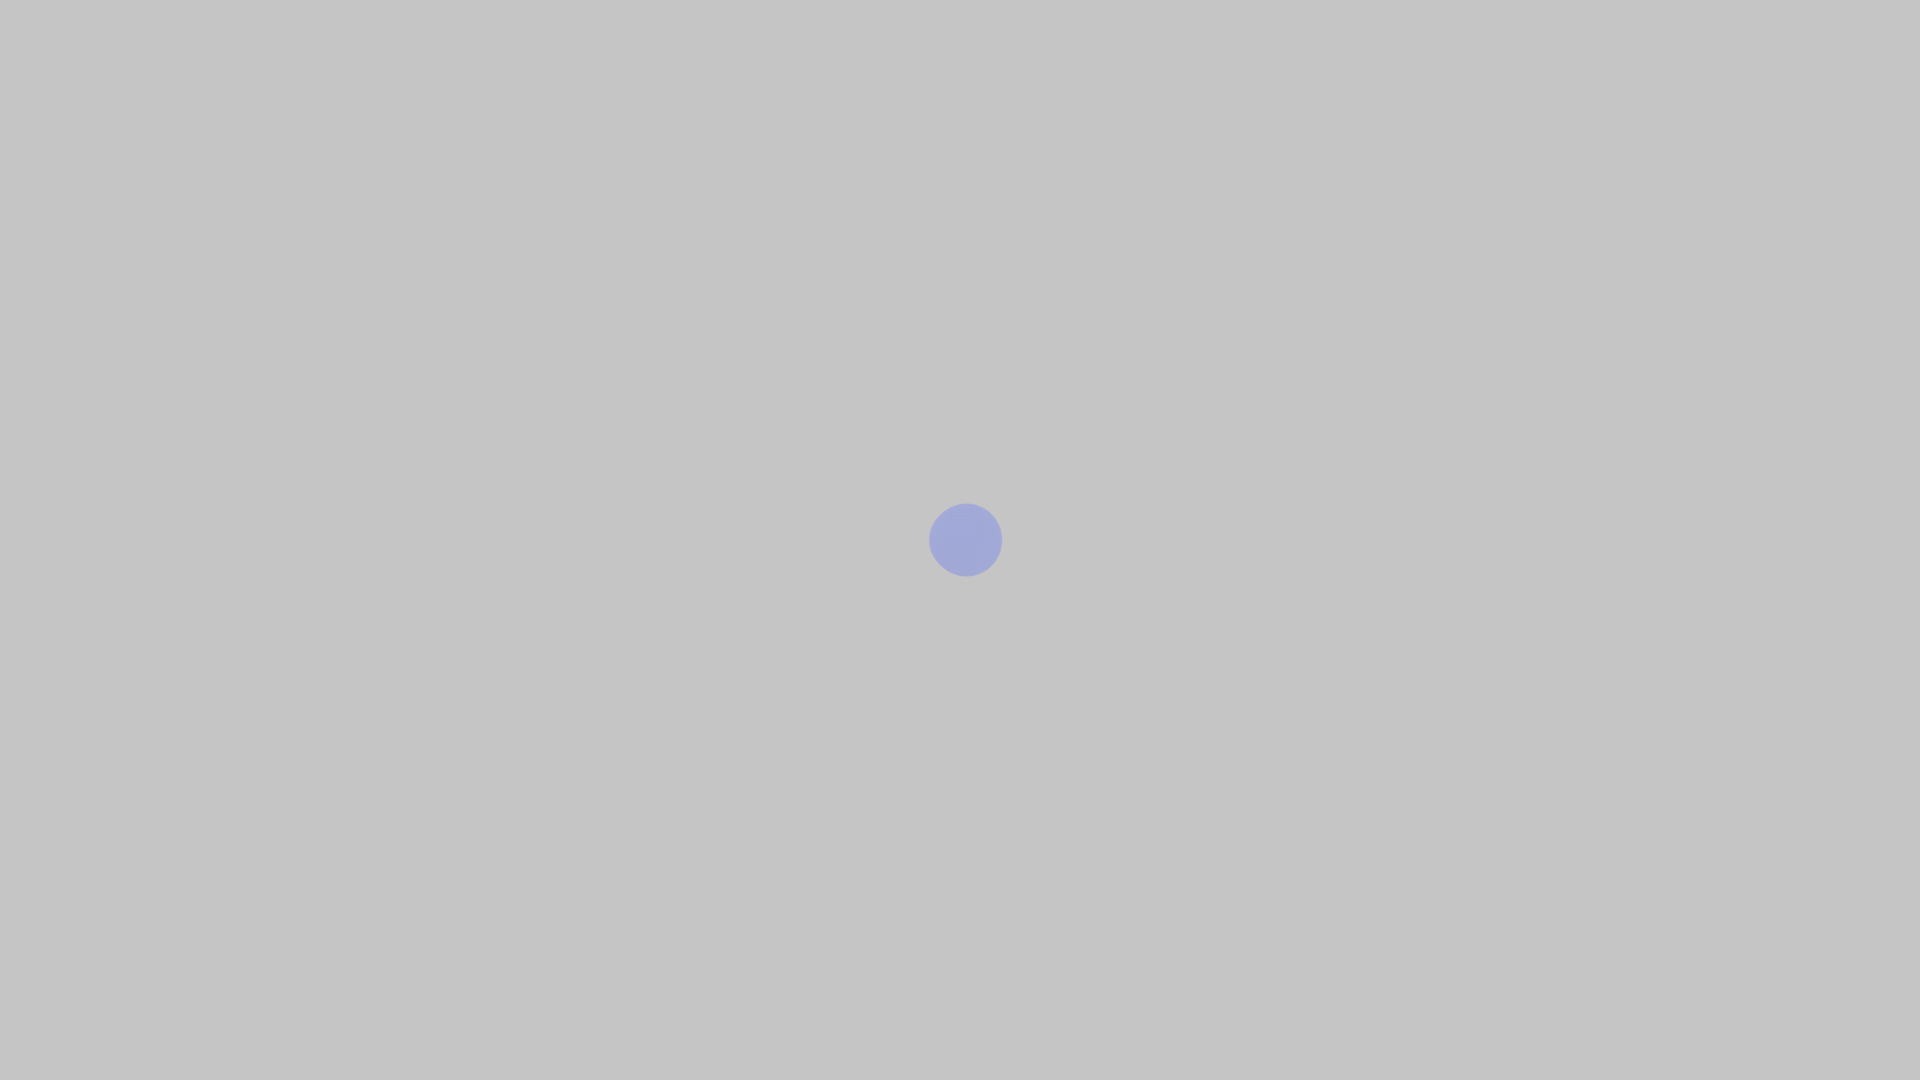
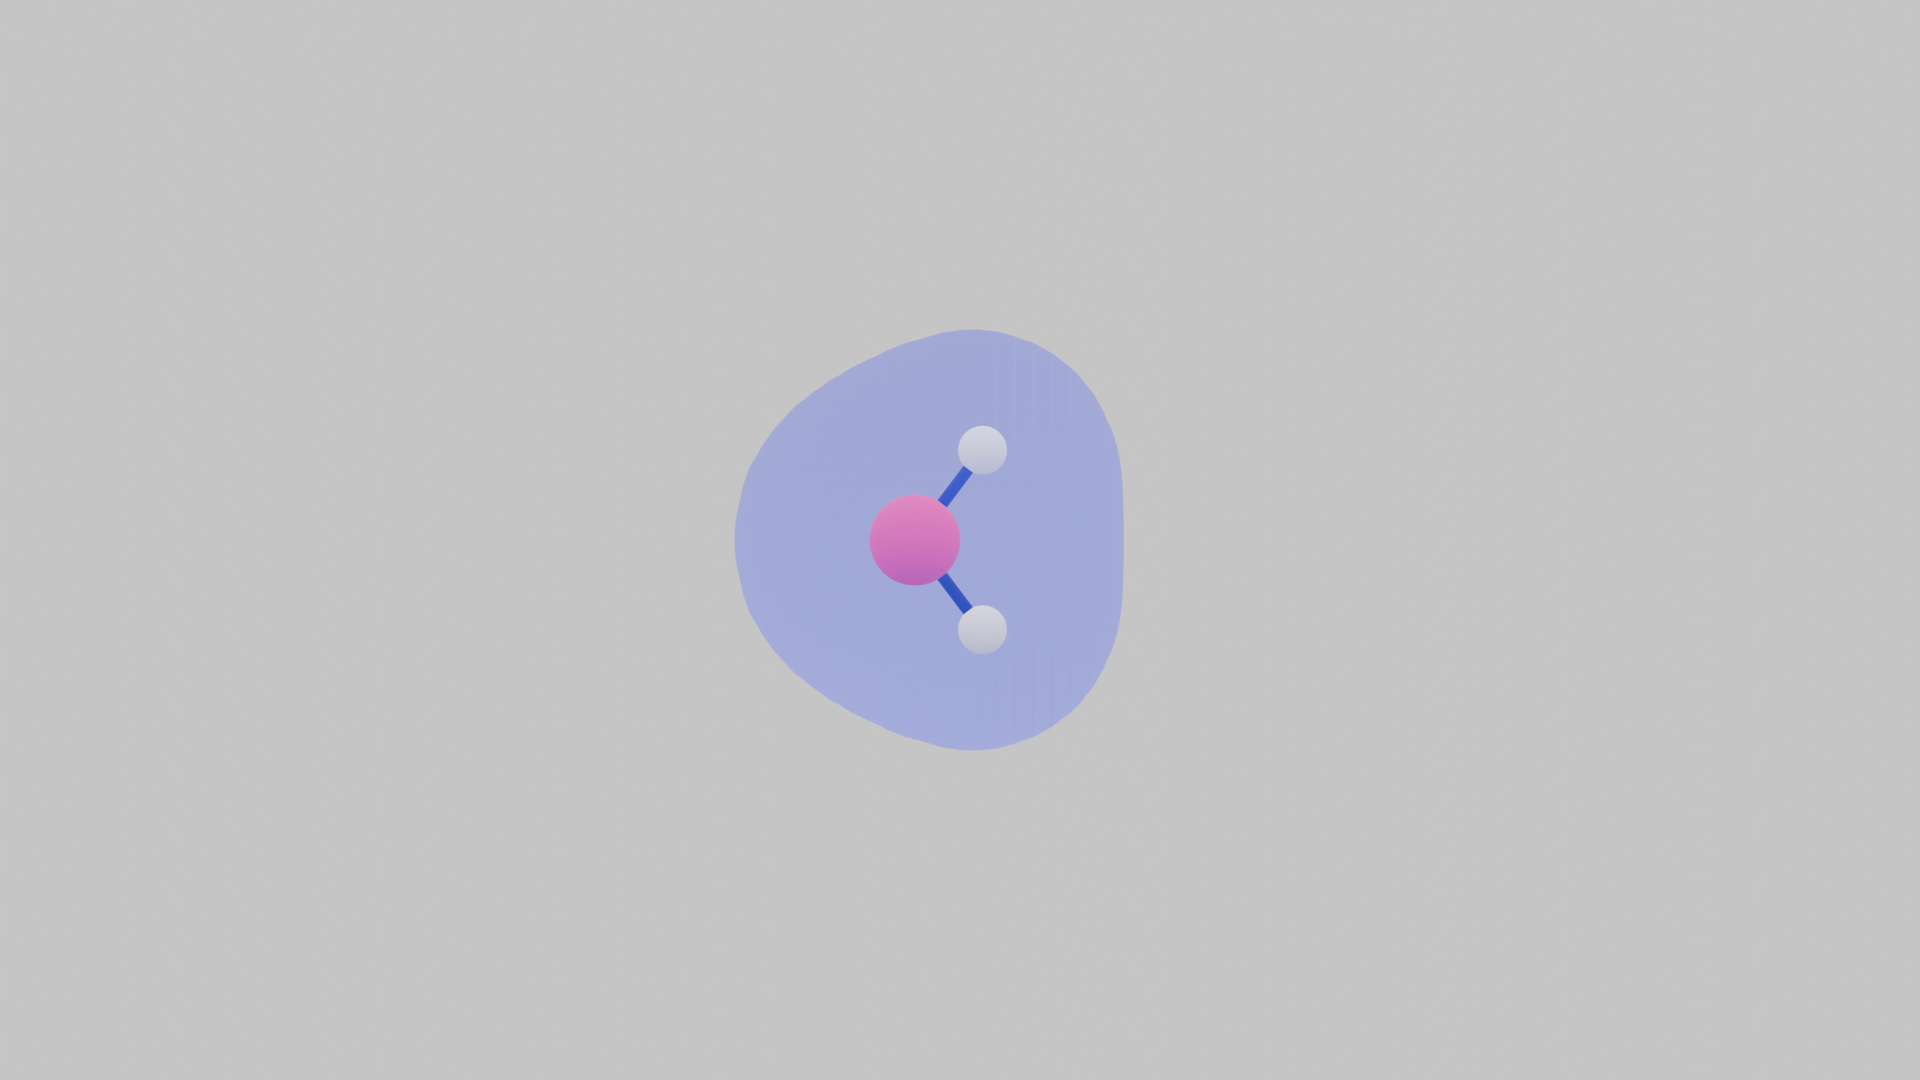
Added function to draw atoms and bonds from names and coordinates

Changed region(s): [[0.375, 0.3056, 0.5938, 0.7028]]

diff --git a/renderCubeFile.py b/renderCubeFile.py
@@ -11,8 +11,12 @@ import logging
 import logging.config
 
 import bpy
+import chemcoord as cc
 
-from math import radians
+import numpy as np
+import numpy.typing as npt
+from math import radians, pi
+import mathutils
 
 from src.cubeFile import CubeFile
 from src.inputFile import InputFile
@@ -27,9 +31,55 @@ loggerDebug = logging.getLogger("debug")
 
 BACKGROUND_COLOR = (1, 1, 1, 1)
 
-class RenderCubeFile():
+CONVERSION_BOHR_TO_ANG = 0.529177
 
+atomSizes = {'H' : 0.4,
+            'He': 0.45,
+            'Li': 0.50,
+            'Be': 0.55,
+            'B': 0.60,
+            'C': 0.65,
+            'N': 0.70,
+            'O': 0.75,
+            'F': 0.80,
+            'Ne': 0.90,
+            'Na': 0.95,
+            'Mg' : 1.00,
+            'Al': 1.05,
+            'Si': 1.10,
+            'P' : 1.15,
+            'S' : 1.20,
+            'Cl' : 1.25,
+            'default': 0.7,
+            }
+
+atomColors = {'bond': (0.0, 0.00, 0.00, 1), 
+            'default': (1.0, 1.0, 1.0, 1),
+            'H' : (1.0, 1.0, 1.0, 1),
+            'He': (0.0, .0, 1.0, 1),
+            'Li': (0.9, 0.9, 0.9, 1),
+            'Be': (1.0, 1.0, 1.0, 1),
+            'B': (1.0, 1.0, 1.0, 1),
+            'C': (0.13, 0.13, 0.13, 1),
+            'N': (1.0, 1.0, 1.0, 1),
+            'O': (1.0, 0.0, 0.0, 1),
+            'F': (0.85, 0.4, 0.0, 1),
+            'Ne': (1.0, 1.0, 1.0, 1),
+            'Na': (1.0, 1.0, 1.0, 1),
+            'Mg' : (1.0, 1.0, 1.0, 1),
+            'Al': (1.0, 1.0, 1.0, 1),
+            'Si': (1.0, 1.0, 1.0, 1),
+            'P' : (1.0, 0.7, 0.4, 1),
+            'S' : (1.0, 1.0, 1.0, 1),
+            'Cl' : (1.0, 1.0, 1.0, 1),
+            }
+
+class RenderCubeFile():
+    '''
+    '''
     def __init__(self, pathToCubeFile, pathToInputFile:str='') -> None:
+        '''
+        '''
         inputData = self._getInputData(pathToInputFile)
         self.imagePath = inputData['imagePath']
 
@@ -44,8 +94,12 @@ class RenderCubeFile():
             if inputData['deleteOBJFile']:
                 os.remove(inputData['pathToOBJFile'])
 
+            self._drawAtomsAndBonds(c.coordinatesOfAtoms, c.nameOfAtoms, c.unit)
+
 
     def _getInputData(self, pathToInputFile) -> dict:
+        '''
+        '''
         inputFile = InputFile()
         if pathToInputFile != '':
             inputData =  inputFile.readInputFile(pathToInputFile)
@@ -55,12 +109,10 @@ class RenderCubeFile():
         return inputData
     
      
-    def _createScene(self, cameraLocation, focalLenght):
+    def _createScene(self, cameraLocation, focalLenght) -> None:
+        '''
+        '''
         self._cleanUpDefaultBlenderScene()
-        
-        self.context = bpy.context
-        self.scene = self.context.scene
-        self.viewLayer = bpy.context.view_layer
 
         self._setBackground()
         self._createLight(cameraLocation)
@@ -68,6 +120,8 @@ class RenderCubeFile():
 
 
     def _cleanUpDefaultBlenderScene(self) -> None:
+        '''
+        '''
         objs = bpy.data.objects
         objs.remove(objs["Cube"], do_unlink=True)
         objs.remove(objs["Camera"], do_unlink=True)
@@ -83,16 +137,20 @@ class RenderCubeFile():
     
 
     def _setBackground(self, ) -> None:
+        '''
+        '''
         bpy.data.worlds["World"].node_tree.nodes["Background"].inputs[0].default_value = BACKGROUND_COLOR
                 
 
     def _createLight(self, cameraLocation: str) -> None:
+        '''
+        '''
         lightData = bpy.data.lights.new('sun', 'SUN')
         lightData.energy = 5.0
         lightData.angle = 180.0 
         light = bpy.data.objects.new(name="New Light", object_data=lightData)
 
-        self.viewLayer.active_layer_collection.collection.objects.link(light)
+        bpy.context.view_layer.active_layer_collection.collection.objects.link(light)
 
         if cameraLocation == '-x':
             lightLocationCoordinates = (-80.0, 0, 80.0)
@@ -118,11 +176,14 @@ class RenderCubeFile():
                 
 
     def _createCamera(self, cameraLocation: str, focalLenght: float) -> None:
+        '''
+
+        '''
         bpy.ops.object.camera_add()
         cam = bpy.context.object
         cam.data.lens = focalLenght
        
-        self.scene.camera = cam
+        bpy.context.scene.camera = cam
         
         if cameraLocation == '-x':
             cameraLocationCoordinates = (-70.0, 0.0, 0.0)
@@ -143,17 +204,26 @@ class RenderCubeFile():
             cameraLocationCoordinates = (0.0, 0.0, 70.0)
             cameraLocationRotationAngles = (0.0, 0.0, 0.0)
 
-        self.scene.camera.location = cameraLocationCoordinates
-        self.scene.camera.rotation_euler = ([radians(a) for a in cameraLocationRotationAngles])
+        bpy.context.scene.camera.location = cameraLocationCoordinates
+        bpy.context.scene.camera.rotation_euler = ([radians(a) for a in cameraLocationRotationAngles])
             
 
     def renderScene(self, imagePath: str) -> None:
+        '''
+
+        '''
         bpy.context.scene.render.filepath = imagePath
         bpy.ops.render.render(write_still = True)  
 
 
     def _drawOBJStructure(self, pathToOBJFile: str) -> None:
+        '''
+        '''
+
         def _createTransperentOBJShader():
+            '''
+            '''
+
             mat = bpy.data.materials.new('Transperent')
             
             mat.use_nodes=True
@@ -199,8 +269,118 @@ class RenderCubeFile():
         if obj.data.materials:
             obj.data.materials[0] = mat
         else:
-            obj.data.materials.append(mat)      
-    
+            obj.data.materials.append(mat)
+
+
+    def _drawAtomsAndBonds(self, atomCoordinates: npt.ArrayLike, atomNames: npt.ArrayLike, unit: str) -> None:
+        '''
+        '''
+
+        def _draw_atoms(atomCoordinates: npt.ArrayLike, atomNames: npt.ArrayLike) -> None:
+            '''
+            '''
+            for element, position in zip(atomNames, atomCoordinates):
+                try:
+                    radius=atomSizes[element]
+                except:
+                    radius=atomSizes["default"]
+                    #TODO: GIve a warning here
+                bpy.ops.mesh.primitive_uv_sphere_add(radius=radius, location=position)
+                obj = bpy.context.active_object
+
+                try:
+                    mat = bpy.data.materials[element]
+                except:
+                    mat = bpy.data.materials["default"]
+                    #TODO: GIve a warning here
+                obj.data.materials.append(mat)
+                bpy.ops.object.shade_smooth() 
+                
+                bpy.ops.object.origin_set(type='ORIGIN_CURSOR')
+
+                bpy.ops.transform.rotate(value=-pi / 2, orient_axis='X')
+
+        def _calculateBonds(atomCoordinates: npt.ArrayLike, atomNames: npt.ArrayLike, unit: str) -> set:
+            '''
+            '''
+            if unit == 'Bohr':
+                atomCoordinates = atomCoordinates * CONVERSION_BOHR_TO_ANG
+
+            # make cc molecule and get bonds dict
+            molecule = cc.Cartesian(atoms=atomNames, coords=atomCoordinates)
+            bondsDict = molecule.get_bonds()
+
+            # get every bond in a set (atom1OfTheBond, atom2OfTheBond)
+            bonds = set()
+            for i in range(0, len(bondsDict)):
+                for j in bondsDict[i]:
+                    bondInList = False
+                    if len(bonds) == 0:
+                        pass
+                    else:
+                        for listedBond in bonds:
+                            if listedBond[0] == i and listedBond[1] == j or listedBond[0] == j and listedBond[1] == i:
+                                bondInList = True
+                            
+                    if bondInList == False:
+                        bonds.add((i, j))
+
+            return bonds
+        
+
+        def _drawBonds(bonds: set, atomCoordinates: npt.ArrayLike) -> None:
+            '''
+            '''
+            def _distance(a, b):
+                return np.sqrt(np.dot(a - b, a - b))
+        
+            def _normalizeVec(vec):
+                return np.array(vec) / np.sqrt(np.dot(vec, vec))
+            
+            for atom1, atom2 in bonds:
+                pos1 = atomCoordinates[atom1]
+                pos2 = atomCoordinates[atom2]
+                
+                difference = pos2 - pos1
+                center = (pos2 + pos1) / 2.0
+                magnitude = _distance(pos1, pos2)
+                bondDirection = _normalizeVec(difference)
+
+                vertical = np.array((0.0, 0.0, 1.0))
+                rotationAxis = np.cross(bondDirection, vertical)
+                angle = -np.arccos(np.dot(bondDirection, vertical))
+                
+                bpy.ops.mesh.primitive_cylinder_add(radius=0.1, 
+                                                    depth=magnitude, 
+                                                    location=center,
+                                                    )
+                                                    
+                obj = bpy.context.active_object
+                obj.data.materials.append(bpy.data.materials['bond'])
+                bpy.ops.object.shade_smooth()
+                
+                obj.rotation_mode = 'QUATERNION'
+                quat = mathutils.Quaternion(rotationAxis, angle)
+                obj.rotation_quaternion = quat
+                
+                bpy.ops.object.origin_set(type='ORIGIN_CURSOR')
+
+                bpy.ops.transform.rotate(value=-pi / 2, orient_axis='X')
+
+        # make materials for atoms
+        for key in atomColors.keys():
+            bpy.data.materials.new(name=key)
+            bpy.data.materials[key].diffuse_color = atomColors[key]
+            bpy.data.materials[key].specular_intensity = 1.0
+            bpy.data.materials[key].roughness = 1.0
+
+        # for each atom render a sphere
+        _draw_atoms(atomCoordinates, atomNames)
+
+        # for each bond render a cylinder
+        if len (atomNames) >= 3:
+            bonds = _calculateBonds(atomCoordinates, atomNames, unit)
+            _drawBonds(bonds, atomCoordinates)
 
 
 if __name__ == "__main__":
